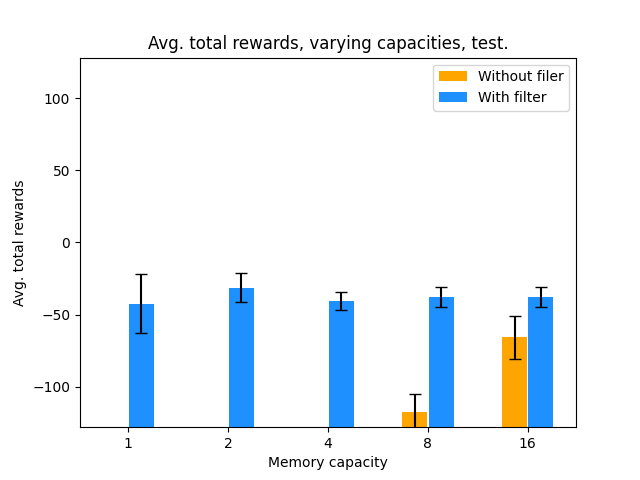
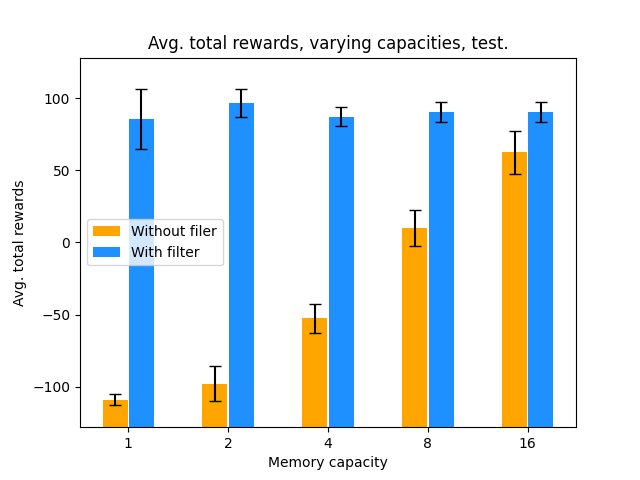
Fix bug in new_plot.py

diff --git a/new_plot.py b/new_plot.py
@@ -117,7 +117,7 @@ if num == len(kinds):
     color_order = ["orange", "dodgerblue"]
 
     for i, w, color in zip([0,1], [-0.53, 0.53], color_order):
-        height = [results_[i][0] for _, results_ in results.items()]
+        height = [results_[i][0] + 128 for _, results_ in results.items()]
         yerr = [results_[i][1] for _, results_ in results.items()]
         ax.bar(
             x=idx + w * width,
